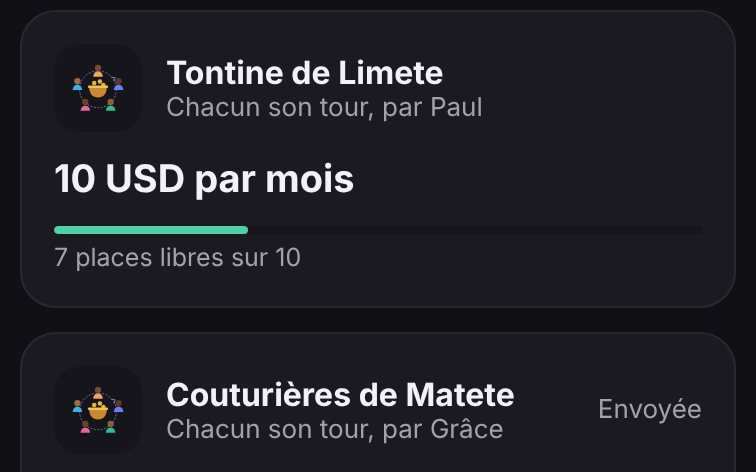
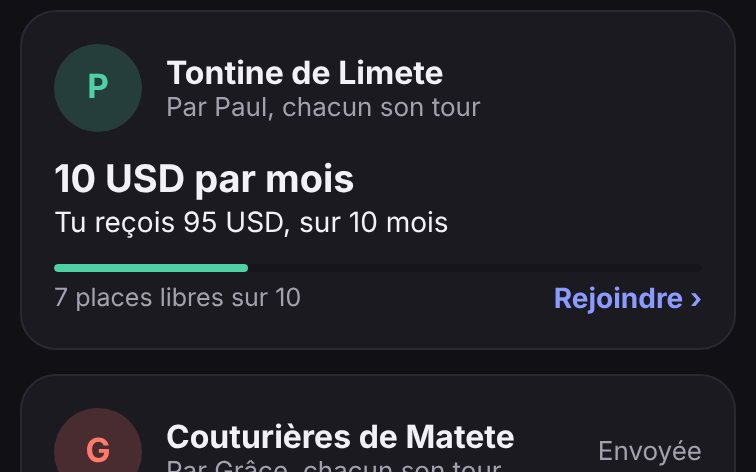
Annuaire : l'organisateur et ce que je reçois sur chaque carte
- Visage de l'organisateur, montant reçu et durée, ou bénéficiaire et date de fin
- « Rejoindre » visible sur la carte
- Sans illustration en tête : plus de groupes visibles dès l'ouverture
- Durée dans le récapitulatif, et rappel qu'on ne paie qu'après la réponse

Claude-Session: https://claude.ai/code/session_01VX1iyCecytfQsykZwKLFr2

diff --git a/src/components/annuaire.tsx b/src/components/annuaire.tsx
@@ -4,11 +4,14 @@ import { Pressable, useWindowDimensions, View } from 'react-native';
 import { SqueletteAnnuaire } from '@/components/squelettes';
 import { Erreur } from '@/components/cotisations-ui';
 import { BadgeGroupe, Illustration } from '@/components/illustrations';
+import { AvatarMembre } from '@/components/photo-profil';
 import { Jauge } from '@/components/jauge';
 import { Text } from '@/components/texte';
 import { Btn, Dialogue, Input, T } from '@/components/ui';
 import { FILTRES_VIDES, nombreFiltres, requeteAnnuaire, RYTHMES_GROUPE, TRANCHES_MONTANT, TYPES_GROUPE, type FiltresAnnuaire } from '@/lib/annuaire';
-import { montantTontine } from '@/lib/commun/cotisations';
+import { montantCotisation, montantTontine } from '@/lib/commun/cotisations';
+import { dureeGroupe, jourMois } from '@/lib/cotisations';
+import { today } from '@/lib/dates';
 import { C, F } from '@/lib/theme';
 import type { CarteGroupe } from '@/lib/tontines';
 
@@ -119,8 +122,10 @@ export function BarreAnnuaire({ q, setQ, filtres, setFiltres, enLigne }: { q: st
 }
 
 /** La carte d'un groupe, la même dans l'annuaire et dans mes groupes. */
-export function CarteGroupeVue({ mode, nom, sous, droite, fort, couleurFort, coin, ratio, bas, onPress, label }: {
+export function CarteGroupeVue({ mode, gauche, nom, sous, droite, fort, couleurFort, coin, note, ratio, bas, appel, onPress, label }: {
   mode: 'rotation' | 'objectif';
+  /** À la place de l'image du groupe : le visage de l'organisateur, dans l'annuaire. */
+  gauche?: ReactNode;
   nom: string;
   sous: string;
   droite?: ReactNode;
@@ -128,8 +133,12 @@ export function CarteGroupeVue({ mode, nom, sous, droite, fort, couleurFort, coi
   couleurFort?: string;
   /** À droite de la ligne forte : le nom du groupe garde toute la largeur. */
   coin?: ReactNode;
+  /** Sous la ligne forte : ce que ça m'apporte. */
+  note?: string;
   ratio: number;
   bas: string;
+  /** Ce que fait la carte quand on la touche. */
+  appel?: string;
   onPress?: () => void;
   label: string;
 }) {
@@ -141,7 +150,7 @@ export function CarteGroupeVue({ mode, nom, sous, droite, fort, couleurFort, coi
       onPress={onPress}
       style={(e) => ({ flex: 1, gap: 12, padding: 16, borderRadius: 18, borderWidth: 1, borderColor: onPress && (e as { hovered?: boolean }).hovered ? C.accent : C.line, backgroundColor: C.surface, opacity: e.pressed ? 0.75 : 1 })}>
       <View style={{ flexDirection: 'row', alignItems: 'center', gap: 12 }}>
-        <BadgeGroupe mode={mode} />
+        {gauche ?? <BadgeGroupe mode={mode} />}
         <View style={{ flex: 1, minWidth: 0 }}>
           <Text numberOfLines={1} style={{ color: C.ink, fontFamily: F.texteF, fontSize: 16 }}>
             {nom}
@@ -152,17 +161,27 @@ export function CarteGroupeVue({ mode, nom, sous, droite, fort, couleurFort, coi
         </View>
         {droite}
       </View>
-      <View style={{ flexDirection: 'row', alignItems: 'center', justifyContent: 'space-between', gap: 10 }}>
-        <Text numberOfLines={1} style={{ flexShrink: 1, color: couleurFort ?? C.ink, fontFamily: F.chiffre, fontSize: 19 }}>
-          {fort}
-        </Text>
-        {coin}
+      <View style={{ gap: 2 }}>
+        <View style={{ flexDirection: 'row', alignItems: 'center', justifyContent: 'space-between', gap: 10 }}>
+          <Text numberOfLines={1} style={{ flexShrink: 1, color: couleurFort ?? C.ink, fontFamily: F.chiffre, fontSize: 19 }}>
+            {fort}
+          </Text>
+          {coin}
+        </View>
+        {note ? (
+          <Text numberOfLines={1} style={{ color: C.ink, fontFamily: F.texte, fontSize: 14 }}>
+            {note}
+          </Text>
+        ) : null}
       </View>
       <View style={{ gap: 5 }}>
         <Jauge ratio={ratio} hauteur={4} />
-        <Text numberOfLines={1} style={{ color: C.muted, fontFamily: F.texteM, fontSize: 12.5 }}>
-          {bas}
-        </Text>
+        <View style={{ flexDirection: 'row', alignItems: 'center', justifyContent: 'space-between', gap: 10 }}>
+          <Text numberOfLines={1} style={{ flexShrink: 1, color: C.muted, fontFamily: F.texteM, fontSize: 12.5 }}>
+            {bas}
+          </Text>
+          {appel ? <Text style={{ color: C.accent, fontFamily: F.texteF, fontSize: 14 }}>{appel} ›</Text> : null}
+        </View>
       </View>
     </Pressable>
   );
@@ -174,7 +193,9 @@ function CarteAnnuaire({ g, etat, onPress }: { g: CarteGroupe; etat?: ReactNode;
   const type = g.mode === 'objectif' ? g.raison || 'Raison précise' : 'Chacun son tour';
   const places = `${libres} place${libres > 1 ? 's' : ''} libre${libres > 1 ? 's' : ''}`;
   const fort = montantTontine(g.montant, g.devise, g.rythme);
-  return <CarteGroupeVue mode={g.mode} nom={g.nom} sous={g.organisateur ? `${type}, par ${g.organisateur}` : type} droite={etat} fort={fort} ratio={g.places ? g.inscrits / g.places : 0} bas={`${places} sur ${g.places}`} onPress={onPress} label={`${g.nom}, ${fort}, ${places}`} />;
+  const duree = dureeGroupe(g);
+  const note = g.mode === 'objectif' ? [g.beneficiaireNom ? `Pour ${g.beneficiaireNom}` : '', g.dateFin ? `jusqu’au ${jourMois(g.dateFin, today())}` : ''].filter(Boolean).join(', ') : `Tu reçois ${montantCotisation(g.net, g.devise)}${duree ? `, sur ${duree}` : ''}`;
+  return <CarteGroupeVue mode={g.mode} gauche={g.organisateur ? <AvatarMembre nom={g.organisateur} photo={g.organisateurPhoto} taille={44} /> : undefined} nom={g.nom} sous={g.organisateur ? `Par ${g.organisateur}, ${type.toLowerCase()}` : type} droite={etat} fort={fort} note={note} ratio={g.places ? g.inscrits / g.places : 0} bas={`${places} sur ${g.places}`} appel={onPress ? 'Rejoindre' : undefined} onPress={onPress} label={`${g.nom}, ${fort}, ${note}, ${places}`} />;
 }
 
 /** Une carte par ligne sur téléphone, deux ou trois sur grand écran. */

diff --git a/src/components/page-annuaire.tsx b/src/components/page-annuaire.tsx
@@ -4,7 +4,6 @@ import { ScrollView, useWindowDimensions, View } from 'react-native';
 import { BarreAnnuaire, ListeAnnuaire, useAnnuaire } from '@/components/annuaire';
 import { Cadre } from '@/components/cotisations-ui';
 import { Bloc, Bouton, EntetePublic, SEUIL_PUBLIC, type Section } from '@/components/entete-public';
-import { Illustration } from '@/components/illustrations';
 import { PiedPublic } from '@/components/pied-public';
 import { Text } from '@/components/texte';
 import { RecapGroupe } from '@/components/tontines';
@@ -32,15 +31,12 @@ export function PageAnnuairePublic({ onAccueil, onSection, onContact, onConnexio
     <View style={{ flex: 1, backgroundColor: C.bg, paddingTop: haut }}>
       <ScrollView stickyHeaderIndices={[0]}>
         <EntetePublic annuaireActif onLogo={onAccueil} logoLabel="Me, page d’accueil" onSection={onSection} onAnnuaire={() => {}} onConnexion={onConnexion} onInscription={onInscription} />
-        <Bloc style={{ gap: large ? 28 : 20, paddingTop: large ? 64 : 28, paddingBottom: large ? 72 : 40 }}>
-          <View style={{ flexDirection: 'row', alignItems: 'center', justifyContent: 'space-between', gap: 16 }}>
-            <View style={{ flex: 1, gap: large ? 12 : 6 }}>
-              <Text accessibilityRole="header" aria-level={1} style={{ color: C.ink, fontFamily: F.titre, fontSize: large ? 48 : 30, lineHeight: large ? 54 : 35, letterSpacing: large ? -1.2 : -0.6 }}>
-                Annuaire des cotisations
-              </Text>
-              <T muted>Trouve un groupe et demande à le rejoindre.</T>
-            </View>
-            <Illustration nom="annuaire" largeur={large ? 190 : 84} />
+        <Bloc style={{ gap: large ? 24 : 16, paddingTop: large ? 44 : 20, paddingBottom: large ? 64 : 36 }}>
+          <View style={{ gap: large ? 8 : 4 }}>
+            <Text accessibilityRole="header" aria-level={1} style={{ color: C.ink, fontFamily: F.titre, fontSize: large ? 40 : 26, lineHeight: large ? 46 : 32, letterSpacing: large ? -1 : -0.5 }}>
+              Annuaire des cotisations
+            </Text>
+            <T muted>Trouve un groupe et demande à le rejoindre.</T>
           </View>
           <BarreAnnuaire enLigne={large} q={q} setQ={setQ} filtres={filtres} setFiltres={setFiltres} />
           <ListeAnnuaire colonnes={largeur >= 1180 ? 3 : largeur >= 720 ? 2 : 1} groupes={groupes} erreur={erreur} filtres={filtres} onEffacer={() => setFiltres(FILTRES_VIDES)} onChoisir={(g) => () => setChoisi(g)} />

diff --git a/src/components/tontines.tsx b/src/components/tontines.tsx
@@ -18,7 +18,7 @@ import { Btn, Dialogue, Empty, Input, Seg, T } from '@/components/ui';
 import { echeancesObjectif, JOURS_APRES, JOURS_AVANT, montantCotisation, montantTontine, RAPPELS_DEFAUT, LIMITES_DEFAUT, repartitionCagnotte, type LimitesCotisation, type RappelsGroupe, type RythmeObjectif } from '@/lib/commun/cotisations';
 import { FILTRES_VIDES, type FiltresAnnuaire } from '@/lib/annuaire';
 import type { BrouillonGroupe } from '@/lib/commande-cotisations';
-import { accueille, echeanceDepassee, estMajeur, jourMois, lireDateNaissance, pretADemarrer, resumeGroupes, situationGroupe, type TonSituation } from '@/lib/cotisations';
+import { accueille, dureeGroupe, echeanceDepassee, estMajeur, jourMois, lireDateNaissance, pretADemarrer, resumeGroupes, situationGroupe, type TonSituation } from '@/lib/cotisations';
 import { addDays, today } from '@/lib/dates';
 import { lireMontant } from '@/lib/finances';
 import { useStore } from '@/lib/store';
@@ -427,6 +427,9 @@ function FormAdhesion({ g, onEnvoyer, onFermer }: { g: CarteGroupe; onEnvoyer: (
   return (
     <Dialogue titre={g.nom} onFermer={onFermer}>
       <RecapGroupe g={g} />
+      <T small muted>
+        {g.organisateur || 'L’organisateur'} répond à ta demande. Tu ne paies qu’après.
+      </T>
       <Conditions on={accepte} onChange={setAccepte} />
       <Btn label="Demander à rejoindre" disabled={!accepte} onPress={onEnvoyer} />
     </Dialogue>
@@ -445,6 +448,7 @@ export function RecapGroupe({ g }: { g: CarteGroupe }) {
         ]
       : [
           ['Cotisation', montantTontine(g.montant, g.devise, g.rythme)],
+          ...(dureeGroupe(g) ? ([['Durée', dureeGroupe(g) as string]] as [string, string][]) : []),
           ...(g.cautionRequise ? ([['Caution', montantCotisation(g.montant, g.devise)]] as [string, string][]) : []),
           ['Tu reçois', montantCotisation(g.net, g.devise)],
           ['Commission', montantCotisation(g.commission, g.devise)],

diff --git a/tests/cotisations.test.ts b/tests/cotisations.test.ts
@@ -1,7 +1,7 @@
 import assert from 'node:assert/strict';
 import { test } from 'node:test';
 
-import { accueille, echeanceDepassee, estMajeur, etatMembre, jourMois, lireDateNaissance, resumeGroupes, situationGroupe, pretADemarrer, suiviPeriode, type Cotisation, type MembreCotisation } from '../src/lib/cotisations';
+import { accueille, dureeGroupe, echeanceDepassee, estMajeur, etatMembre, jourMois, lireDateNaissance, resumeGroupes, situationGroupe, pretADemarrer, suiviPeriode, type Cotisation, type MembreCotisation } from '../src/lib/cotisations';
 import { montantCotisation } from '../src/lib/commun/cotisations.ts';
 import type { Groupe } from '../src/lib/tontines.ts';
 
@@ -95,5 +95,12 @@ test('additionne ce qui est à payer par devise, et trouve mon prochain versemen
   assert.deepEqual(r.dus, ['15 USD', montantCotisation(5000000, 'CDF')]);
   assert.equal(r.prochain?.echeance, '2027-01-06');
   assert.equal(resumeGroupes([groupeVu({ mode: 'objectif' })]).prochain, null);
+});
+
+test('dit combien de temps dure un groupe', () => {
+  assert.equal(dureeGroupe({ mode: 'rotation', rythme: 'mensuel', places: 10 }), '10 mois');
+  assert.equal(dureeGroupe({ mode: 'rotation', rythme: 'hebdomadaire', places: 6 }), '6 semaines');
+  assert.equal(dureeGroupe({ mode: 'rotation', rythme: 'quotidien', places: 5 }), '5 jours');
+  assert.equal(dureeGroupe({ mode: 'objectif', rythme: 'mensuel', places: 10 }), null);
 });
 

diff --git a/src/lib/cotisations.ts b/src/lib/cotisations.ts
@@ -99,3 +99,12 @@ export function resumeGroupes(groupes: Groupe[]) {
     .sort((a, b) => a.echeance.localeCompare(b.echeance));
   return { dus: [...totaux].map(([devise, total]) => montantCotisation(total, devise)), prochain: tours[0] ?? null };
 }
+
+/** Combien de temps dure un groupe chacun son tour : un tour par membre. */
+export function dureeGroupe(g: Pick<Groupe, 'mode' | 'rythme' | 'places'>) {
+  if (g.mode === 'objectif') return null;
+  const unite = g.rythme === 'quotidien' ? 'jour' : g.rythme === 'hebdomadaire' ? 'semaine' : g.rythme === 'mensuel' ? 'mois' : null;
+  if (!unite) return null;
+  return `${g.places} ${unite}${g.places > 1 && unite !== 'mois' ? 's' : ''}`;
+}
+

diff --git a/CHANGELOG.md b/CHANGELOG.md
@@ -15,6 +15,7 @@ Les plus récents sont en haut. Chaque ligne dit ce que ça change pour l'utilis
 - Chargements harmonisés : la forme de la page pendant la lecture, et un seul indicateur pour les attentes courtes.
 - Commande vocale : ouvrir les cotisations et l'annuaire, savoir qui reçoit et combien payer, préparer un paiement ou un groupe à confirmer à l'écran.
 - Page d'accueil : de vrais écrans de l'app à la place des illustrations des cotisations.
+- Annuaire : l'organisateur, ce que tu reçois et la durée sur chaque carte ; plus de groupes visibles dès l'ouverture.
 - Cotisations : le total à payer en tête, des cartes par groupe, un groupe en deux colonnes sur ordinateur et une création en trois étapes.
 - Formulaire d'éligibilité en trois étapes : numéro, informations, pièce d'identité.
 - L'admin fixe le montant maximum d'une cotisation et le nombre de membres par groupe.
